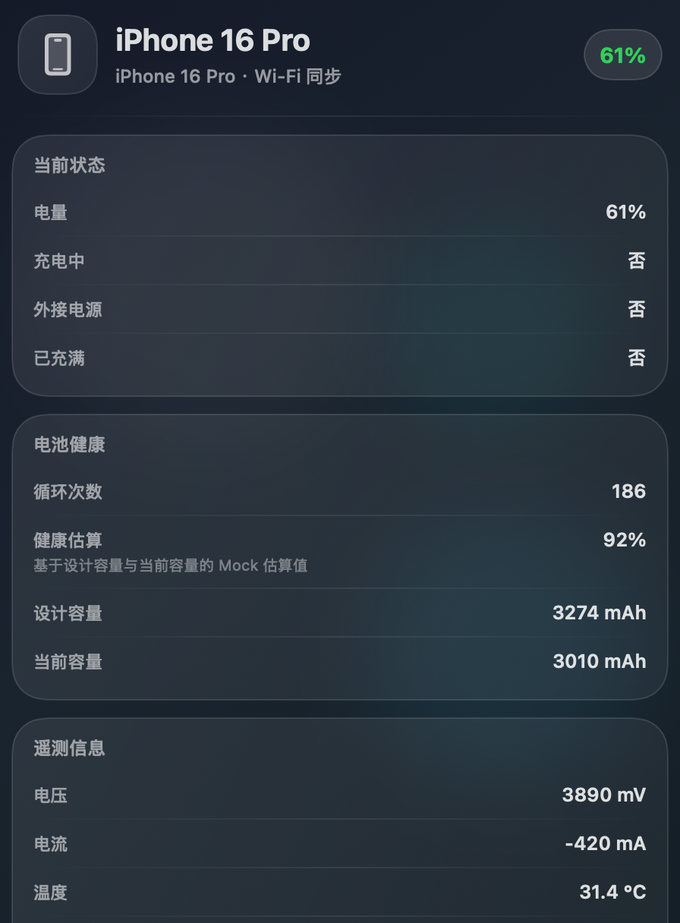
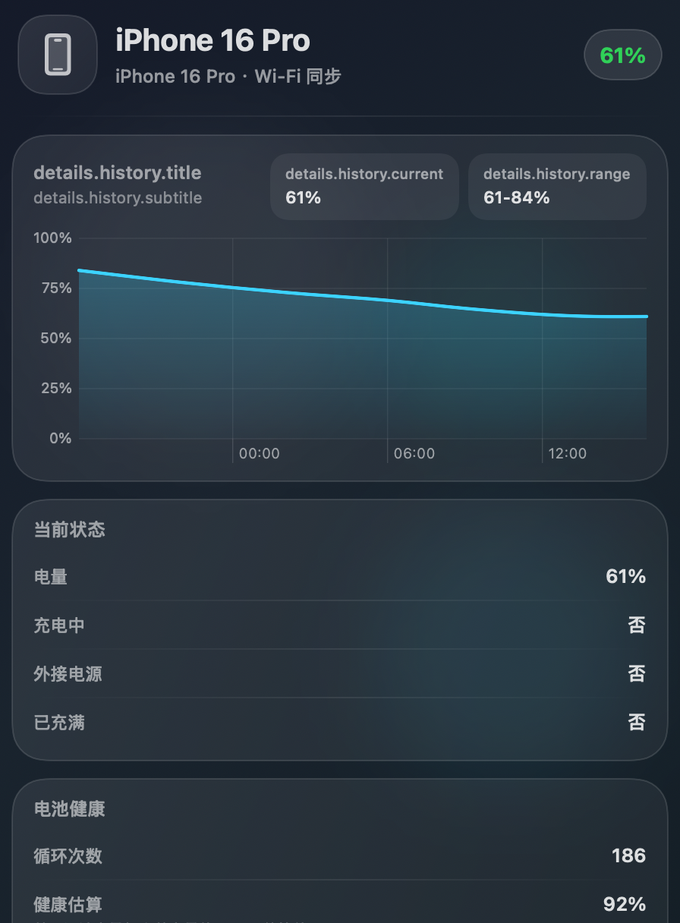
Polish history UI and document recent features

diff --git a/MagicBattery/Services/BluetoothSystemProfilerParser.swift b/MagicBattery/Services/BluetoothSystemProfilerParser.swift
@@ -1,6 +1,6 @@
 import Foundation
 
-struct ParsedBluetoothAccessory: Equatable {
+struct BluetoothSystemProfilerAccessory: Equatable {
     let uniqueKey: String
     let name: String
     let normalizedName: String
@@ -10,9 +10,9 @@ struct ParsedBluetoothAccessory: Equatable {
 }
 
 enum BluetoothSystemProfilerParser {
-    static func parse(_ output: String) -> [ParsedBluetoothAccessory] {
+    static func parse(_ output: String) -> [BluetoothSystemProfilerAccessory] {
         let lines = output.components(separatedBy: .newlines)
-        var accessories: [ParsedBluetoothAccessory] = []
+        var accessories: [BluetoothSystemProfilerAccessory] = []
         var inConnectedSection = false
         var currentName: String?
         var currentFields: [String: String] = [:]
@@ -37,7 +37,7 @@ enum BluetoothSystemProfilerParser {
             if hasSplitBattery {
                 if let left {
                     accessories.append(
-                        ParsedBluetoothAccessory(
+                        BluetoothSystemProfilerAccessory(
                             uniqueKey: "\(uniqueKey)::left",
                             name: "\(currentName) · \(String(localized: "device.type.airpods_left"))",
                             normalizedName: normalizedName,
@@ -49,7 +49,7 @@ enum BluetoothSystemProfilerParser {
                 }
                 if let right {
                     accessories.append(
-                        ParsedBluetoothAccessory(
+                        BluetoothSystemProfilerAccessory(
                             uniqueKey: "\(uniqueKey)::right",
                             name: "\(currentName) · \(String(localized: "device.type.airpods_right"))",
                             normalizedName: normalizedName,
@@ -61,7 +61,7 @@ enum BluetoothSystemProfilerParser {
                 }
                 if let chargingCase {
                     accessories.append(
-                        ParsedBluetoothAccessory(
+                        BluetoothSystemProfilerAccessory(
                             uniqueKey: "\(uniqueKey)::case",
                             name: "\(currentName) · \(String(localized: "device.type.airpods_case"))",
                             normalizedName: normalizedName,
@@ -71,13 +71,24 @@ enum BluetoothSystemProfilerParser {
                         )
                     )
                 }
-            } else if let overall, overall >= 0 || isHeadphoneLike {
+            } else if let overall {
                 accessories.append(
-                    ParsedBluetoothAccessory(
+                    BluetoothSystemProfilerAccessory(
                         uniqueKey: uniqueKey,
                         name: currentName,
                         normalizedName: normalizedName,
                         batteryLevel: overall,
+                        type: baseType,
+                        parentUniqueKey: nil
+                    )
+                )
+            } else if isHeadphoneLike {
+                accessories.append(
+                    BluetoothSystemProfilerAccessory(
+                        uniqueKey: uniqueKey,
+                        name: currentName,
+                        normalizedName: normalizedName,
+                        batteryLevel: -1,
                         type: baseType,
                         parentUniqueKey: nil
                     )
@@ -118,7 +129,6 @@ enum BluetoothSystemProfilerParser {
             }
 
             guard currentName != nil else { continue }
-            guard currentIndent == Int.max || indent > currentIndent || trimmed.contains(": ") else { continue }
             guard let separatorRange = trimmed.range(of: ":") else { continue }
             let key = String(trimmed[..<separatorRange.lowerBound]).trimmingCharacters(in: .whitespaces)
             let value = String(trimmed[separatorRange.upperBound...]).trimmingCharacters(in: .whitespaces)
@@ -140,8 +150,7 @@ enum BluetoothSystemProfilerParser {
         name
             .trimmingCharacters(in: .whitespacesAndNewlines)
             .lowercased()
-            .replacingOccurrences(of: "（", with: "(")
-            .replacingOccurrences(of: "）", with: ")")
+            .replacingOccurrences(of: "\u{00a0}", with: " ")
     }
 
     private static func determineDeviceType(fromName name: String) -> DeviceType {
@@ -149,7 +158,7 @@ enum BluetoothSystemProfilerParser {
         if normalizedName.contains("airpods") {
             return .airPods
         }
-        if normalizedName.contains("beats") || normalizedName.contains("buds") || normalizedName.contains("headphone") {
+        if normalizedName.contains("beats") || normalizedName.contains("buds") {
             return .bluetoothHeadphone
         }
         return .bluetoothDevice

diff --git a/batteryTests/BluetoothDeviceServiceTests.swift b/batteryTests/BluetoothDeviceServiceTests.swift
@@ -3,36 +3,36 @@ import XCTest
 
 final class BluetoothDeviceServiceTests: XCTestCase {
 
-    private let sampleSystemProfilerOutput = #"""
-Bluetooth:
-
-Bluetooth Controller:
-Address: 50:F2:65:EA:DE:9F
-State: On
-Connected:
-Air75 V3-1:
-Address: E0:00:72:DE:8A:AA
-Vendor ID: 0x07D7
-Minor Type: Keyboard
-Services: 0x400000 < BLE >
-华强北 pro3:
-Address: 74:3F:8E:AC:1E:31
-Vendor ID: 0x004C
-Product ID: 0x2027
-Left Battery Level: 100%
-Right Battery Level: 100%
-Case Version: 8B34f
-Firmware Version: 8B34f
-Minor Type: Headphones
-RSSI: -63
-Serial Number: JT2X1HHWQC
-Serial Number (Left): GFDHQL0L6F10000UHZ
-Serial Number (Right): GMVHQK1M0Y00000UHY
-Services: 0x980019 < HFP AVRCP A2DP AACP GATT ACL >
-Not Connected:
-iPad:
-Address: 04:72:EF:29:B6:66
-"""#
+    private let sampleSystemProfilerOutput = [
+        "Bluetooth:",
+        "",
+        "Bluetooth Controller:",
+        "Address: 50:F2:65:EA:DE:9F",
+        "State: On",
+        "Connected:",
+        "Air75 V3-1:",
+        "Address: E0:00:72:DE:8A:AA",
+        "Vendor ID: 0x07D7",
+        "Minor Type: Keyboard",
+        "Services: 0x400000 < BLE >",
+        "华强北 pro3:",
+        "Address: 74:3F:8E:AC:1E:31",
+        "Vendor ID: 0x004C",
+        "Product ID: 0x2027",
+        "Left Battery Level: 100%",
+        "Right Battery Level: 100%",
+        "Case Version: 8B34f",
+        "Firmware Version: 8B34f",
+        "Minor Type: Headphones",
+        "RSSI: -63",
+        "Serial Number: JT2X1HHWQC",
+        "Serial Number (Left): GFDHQL0L6F10000UHZ",
+        "Serial Number (Right): GMVHQK1M0Y00000UHY",
+        "Services: 0x980019 < HFP AVRCP A2DP AACP GATT ACL >",
+        "Not Connected:",
+        "iPad:",
+        "Address: 04:72:EF:29:B6:66"
+    ].joined(separator: "\n")
 
     // MARK: - Device Deduplication Tests
 

diff --git a/MagicBattery/Support/MockData.swift b/MagicBattery/Support/MockData.swift
@@ -144,10 +144,34 @@ enum MockData {
         )
     }
 
+    static var detailHistorySamples: [BatteryHistorySample] {
+        let calendar = Calendar.current
+        let now = Date()
+        let points: [(hoursAgo: Int, level: Int, charging: Bool)] = [
+            (22, 84, false),
+            (18, 78, false),
+            (14, 73, false),
+            (10, 69, false),
+            (7, 65, false),
+            (4, 62, false),
+            (2, 61, false),
+            (0, 61, false)
+        ]
+
+        return points.map { point in
+            BatteryHistorySample(
+                timestamp: calendar.date(byAdding: .hour, value: -point.hoursAgo, to: now) ?? now,
+                batteryLevel: point.level,
+                isCharging: point.charging
+            )
+        }
+    }
+
     static func applyScreenshotDefaults() {
         let defaults = UserDefaults.standard
         defaults.set(true, forKey: "enableNotifications")
         defaults.set(20, forKey: "lowBatteryThreshold")
+        defaults.set(NotificationSoundOption.glass.rawValue, forKey: "notificationSound")
         defaults.set(60, forKey: "updateInterval")
         defaults.set(120, forKey: "bleScanInterval")
         defaults.set(false, forKey: "showInDock")

diff --git a/MagicBattery/Views/DeviceDetailsSheet.swift b/MagicBattery/Views/DeviceDetailsSheet.swift
@@ -235,7 +235,7 @@ struct DeviceDetailsSheet: View {
     }
 }
 
-private struct DeviceHistoryChartCard: View {
+struct DeviceHistoryChartCard: View {
     let samples: [BatteryHistorySample]
 
     private var sortedSamples: [BatteryHistorySample] {
@@ -258,11 +258,11 @@ private struct DeviceHistoryChartCard: View {
         VStack(alignment: .leading, spacing: 12) {
             HStack(alignment: .firstTextBaseline) {
                 VStack(alignment: .leading, spacing: 3) {
-                    Text("details.history.title")
+                    Text(String(localized: "details.history.title"))
                         .font(.system(size: 12, weight: .semibold))
                         .foregroundStyle(Color.secondary)
 
-                    Text("details.history.subtitle")
+                    Text(String(localized: "details.history.subtitle"))
                         .font(.system(size: 10.5))
                         .foregroundStyle(Color.secondary.opacity(0.8))
                 }

diff --git a/MagicBattery/Support/ScreenshotExporter.swift b/MagicBattery/Support/ScreenshotExporter.swift
@@ -241,7 +241,7 @@ private struct MockDeviceDetailsView: View {
     }
 
     private var visibleSections: [DeviceDetailSection] {
-        Array(snapshot.sections.prefix(3))
+        Array(snapshot.sections.prefix(2))
     }
 
     var body: some View {
@@ -267,6 +267,8 @@ private struct MockDeviceDetailsView: View {
             BatteryHairline().padding(.horizontal, 12)
 
             VStack(spacing: 12) {
+                DeviceHistoryChartCard(samples: MockData.detailHistorySamples)
+
                 ForEach(visibleSections) { section in
                     MockDeviceDetailSectionCard(section: section)
                 }

diff --git a/README.md b/README.md
@@ -63,7 +63,9 @@ MagicBattery/
 │   ├── DeviceDetailsService.swift    # 设备详情查询服务
 │   ├── StableDeviceIDStore.swift     # 设备 ID 持久化
 │   ├── DeviceTypeOverrideStore.swift # 设备类型手动覆盖
-│   ├── NotificationManager.swift     # 通知管理器
+│   ├── NotificationManager.swift     # 通知管理器（含自定义提示音）
+│   ├── BatteryHistoryStore.swift     # 电量历史记录存储
+│   ├── BluetoothSystemProfilerParser.swift # system_profiler 蓝牙输出解析
 │   └── PermissionManager.swift       # 权限管理器
 ├── ViewModels/            # 视图模型
 │   ├── DeviceListViewModel.swift     # 设备列表视图模型
